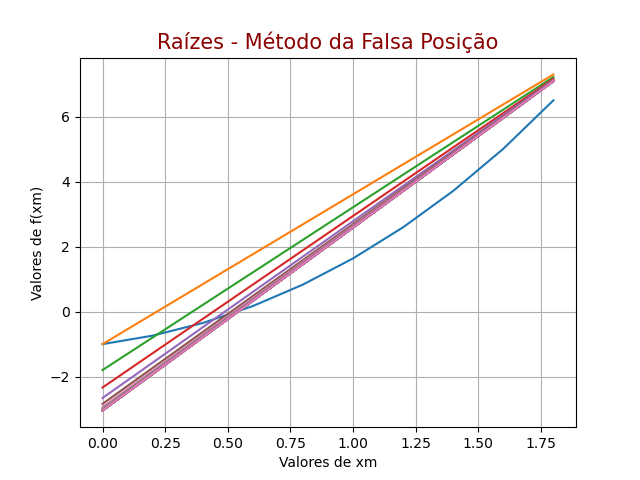
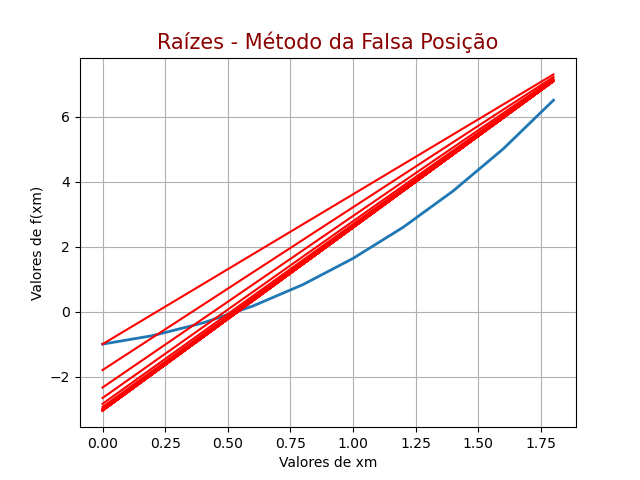
Método de Newton

diff --git a/entregas/parte-2/Newton/Newton.py b/entregas/parte-2/Newton/Newton.py
@@ -1,12 +1,12 @@
-from func import func
+from funcs import func, d_func
 import os
 import numpy as np
 import matplotlib
 matplotlib.use('Agg')
 import matplotlib.pyplot as plt
 
-cwd = os.path.join(os.getcwd(), "entregas", "parte-2", "bissecao")
-img = os.path.join(cwd, "bissec_chart.png")
+cwd = os.path.join(os.getcwd(), "entregas", "parte-2", "Newton")
+img = os.path.join(cwd, "Newton.png")
 
 a = int(input("\nInsira o início do intervalo (a): "))
 b = int(input("Insira o fim do intervalo (b): "))
@@ -25,50 +25,49 @@ while (fa * fb) > 0:
     while a > b:
         print("\nO (a) é maior que o (b)")
         a = int(input("Insira novos valores para o início do intervalo (a): "))
-        b = int(input("Insira novos valores para o fim do intervalo (b): "))
-    X = np.arange(a, b, (b - a) * 0.1)
-    y = list(map(func, X))
+        b = int(input("Insira novos valores para o fim do intervalo (b): "))    
     fa = func(a)
     fb = func(b)
 
+erro = 10 ** (-7)
+k = 0 
+x0 = 2
+fx = func(x0)
+dfx = d_func(x0)
+x_c = []
+r_c = []
 X = np.arange(a, b, (b - a) * 0.1)
 y = list(map(func, X))
-erro = (10 ** (-7))
-k = 0
-fxm = 1
-X_xm = []
-y_fxm = []
-
-while (abs(fxm) > erro):
-    k += 1
-    xm = (a + b) / 2
-    fxm = func(xm)
-    if (fa * fxm) < 0:
-        b = xm
-        fb = fxm
-    else:
-        a = xm
-        fa = fxm
-    X_xm.append(xm)
-    y_fxm.append(fxm)
 
 font = {'color':  'darkred',
         'weight': 'normal',
         'size': 15
         }
-
 fig = plt.figure()
-plt.plot(X, y)
-plt.plot(X_xm, y_fxm, "r+", linewidth = 2)
-plt.title("Raízes - Método da Bisseção", fontdict = font)
-plt.xlabel("Valores de xm")
-plt.ylabel("Valores de f(xm)")
+plt.plot(X, y, linewidth = 2)
+
+while abs(fx) > erro:
+    k += 1    
+    x_c.append(X)
+    r = (dfx * (X - x0)) + fx    
+    r_c.append(r)        
+    xk = x0 - (fx / dfx)    
+    x0 = xk
+    fx = func(x0)    
+    dfx = d_func(x0)
+
+for x in range(0, k):
+    plt.plot(x_c[x], r_c[x], 'r')
+
+plt.title("Raízes - Método de Newton", fontdict = font)
+plt.xlabel("Valores de x")
+plt.ylabel("Valores de f(x)")
 plt.grid()
 fig.savefig(img)
 
-print("\nNúmero de iterações: {}".format(k))
-print("Raiz da função: {:.11f}".format(xm))
-print("Função aplicada na raiz: {:.11f}".format(fxm))
+print(f"\nNúmero de iterações: {k}")
+print("Raiz da função: {:.11f}".format(xk))
+print("Função aplicada na raiz: {:.11f}".format(fx))
 
 # Gráfico plotado para valores de:
 # a = 0

diff --git a/entregas/parte-2/falsa-posicao/falsa_pos.py b/entregas/parte-2/falsa-posicao/falsa_pos.py
@@ -25,9 +25,7 @@ while (fa * fb) > 0:
     while a > b:
         print("\nO (a) é maior que o (b)")
         a = int(input("Insira novos valores para o início do intervalo (a): "))
-        b = int(input("Insira novos valores para o fim do intervalo (b): "))
-    X = np.arange(a, b, (b - a) * 0.1)
-    y = list(map(func, X))
+        b = int(input("Insira novos valores para o fim do intervalo (b): "))    
     fa = func(a)
     fb = func(b)
 
@@ -44,7 +42,7 @@ font = {'color':  'darkred',
         'size': 15
         }
 fig = plt.figure()
-plt.plot(X,y)
+plt.plot(X, y, linewidth = 2)
 
 while (abs(fxm) > erro):
     k += 1
@@ -60,8 +58,8 @@ while (abs(fxm) > erro):
         a = xm
         fa = fxm    
 
-for x in range(0, 26):
-    plt.plot(x_c[x], r_c[x])
+for x in range(0, k):
+    plt.plot(x_c[x], r_c[x], 'r')
 
 plt.title("Raízes - Método da Falsa Posição", fontdict = font)
 plt.xlabel("Valores de xm")
@@ -70,5 +68,9 @@ plt.grid()
 fig.savefig(img)
 
 print("\nNúmero de iterações: {}".format(k))
-print("Raiz da função: {:.7f}".format(xm))
-print("Função aplicada na raiz: {:.8f}".format(fxm))
+print("Raiz da função: {:.11f}".format(xm))
+print("Função aplicada na raiz: {:.11f}".format(fxm))
+
+# Gráfico plotado para valores de:
+# a = 0
+# b = 2

diff --git a/entregas/parte-2/Newton/funcs.py b/entregas/parte-2/Newton/funcs.py
@@ -1,0 +1,10 @@
+import math
+
+def func(x):    
+    return math.exp(x) - (2 * math.cos(x))
+
+def d_func(x):    
+    return math.exp(x) + (2 * math.sin(x))
+
+if __name__ == "__main__":
+    pass
